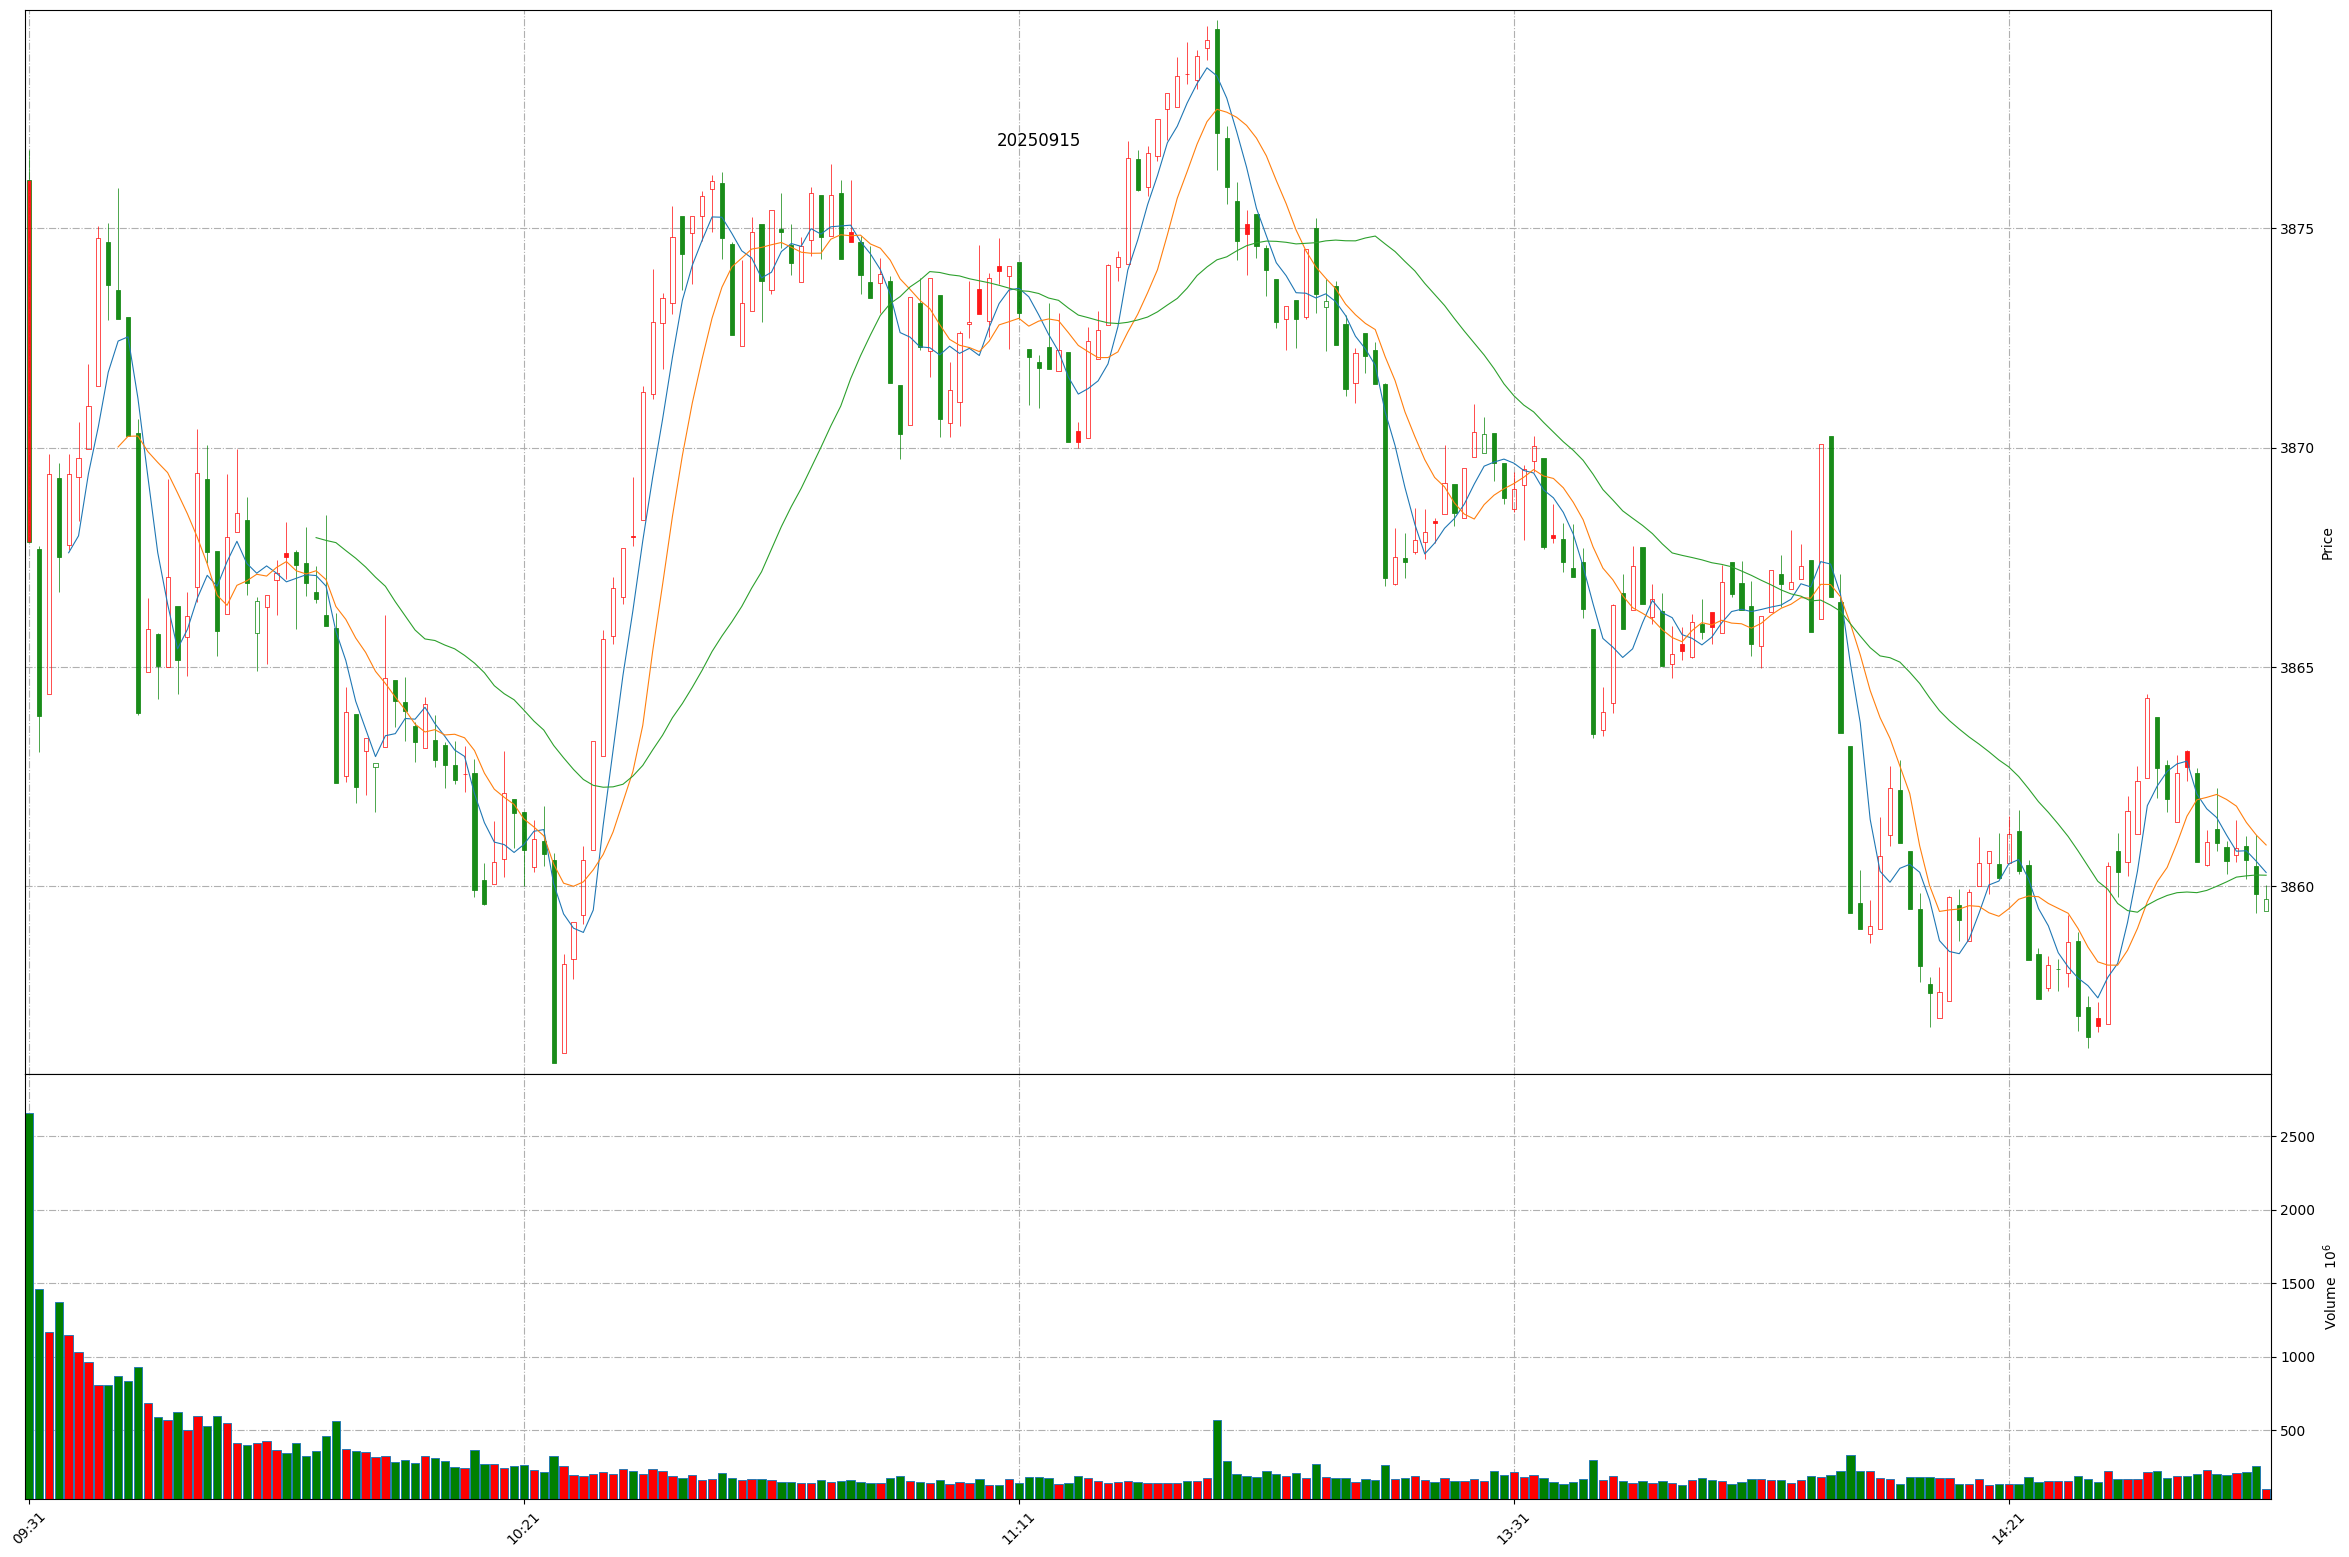
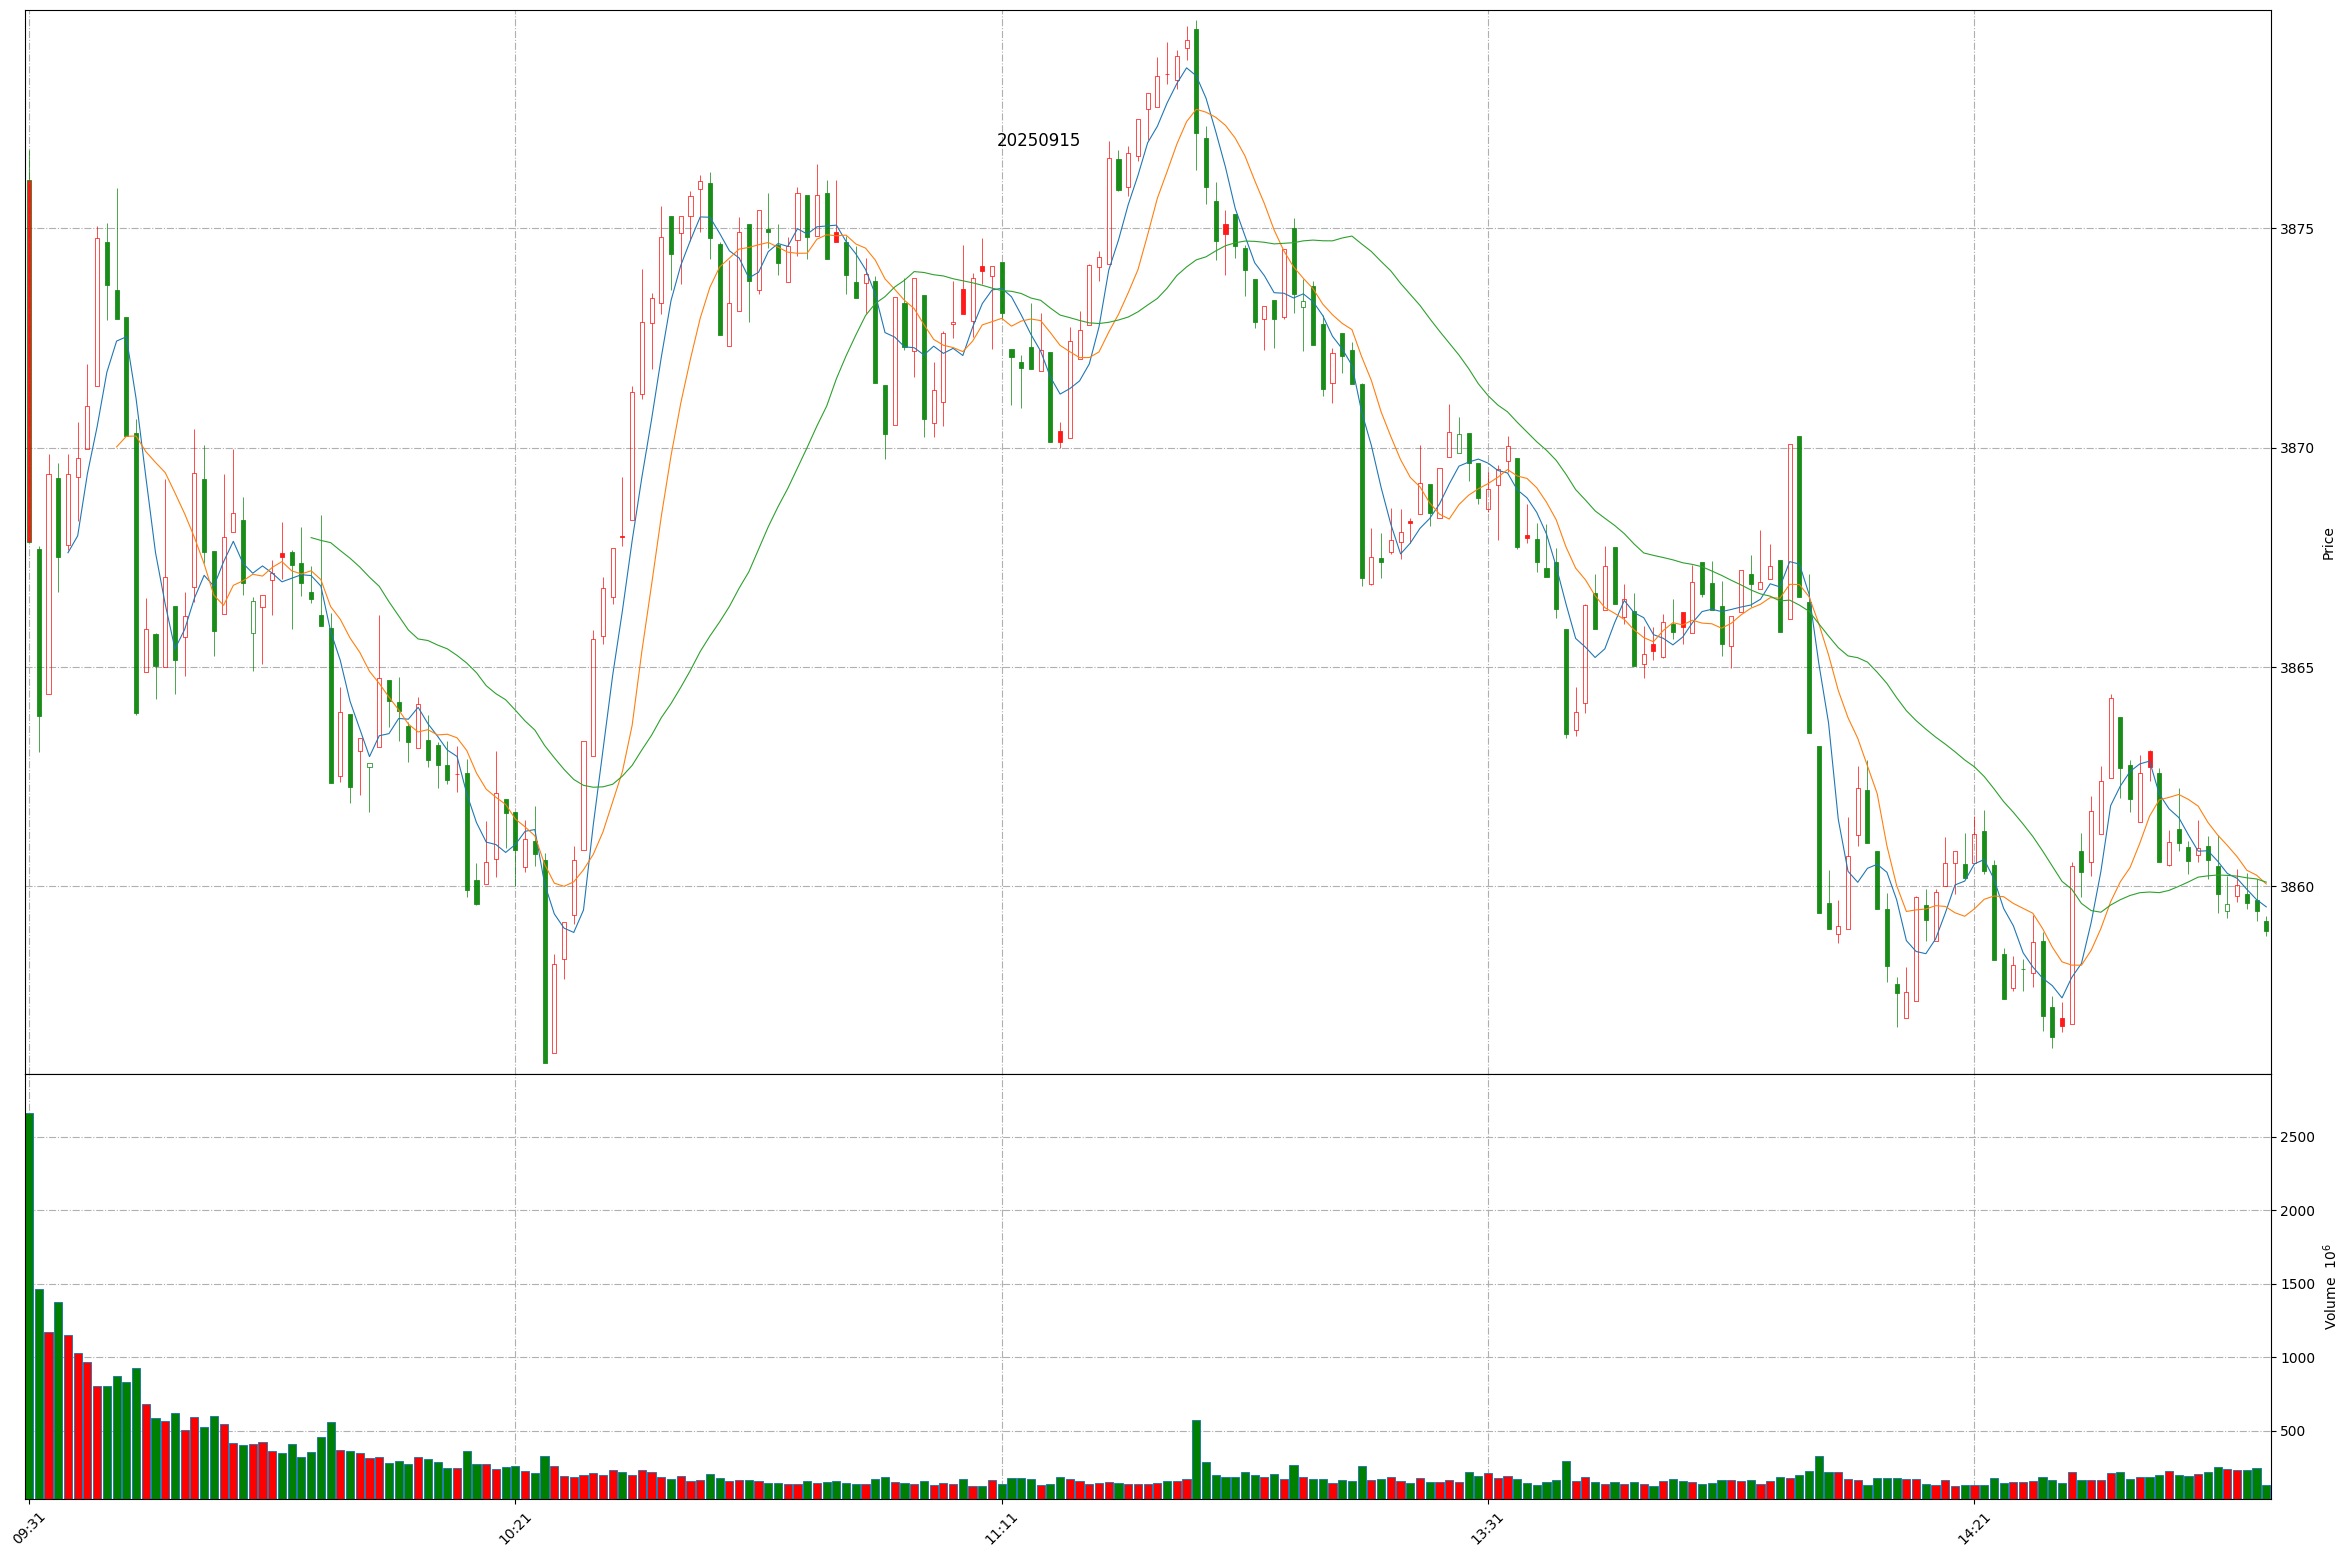
Github action update at 2025-09-15 14:50:50.

Changed region(s): [[0.2797, 0.0308, 0.9634, 0.6782], [0.0311, 0.8632, 0.9634, 0.9865], [0.0, 0.1541, 0.2797, 0.6782]]

diff --git a/README.md b/README.md
@@ -1,11 +1,11 @@
 
 # Daily-A-share-market-quotes 每日 A 股指数（5min 更新）- 20250915
 
-### 上证指数 20250915 14:46
+### 上证指数 20250915 14:50
 ![](./fig/2025/9/20250915-sh000001.png)
 
-### 深证成指 20250915 14:46
+### 深证成指 20250915 14:50
 ![](./fig/2025/9/20250915-sz399001.png)
 
-### 北证50 20250915 14:46
+### 北证50 20250915 14:50
 ![](./fig/2025/9/20250915-bj899050.png)
